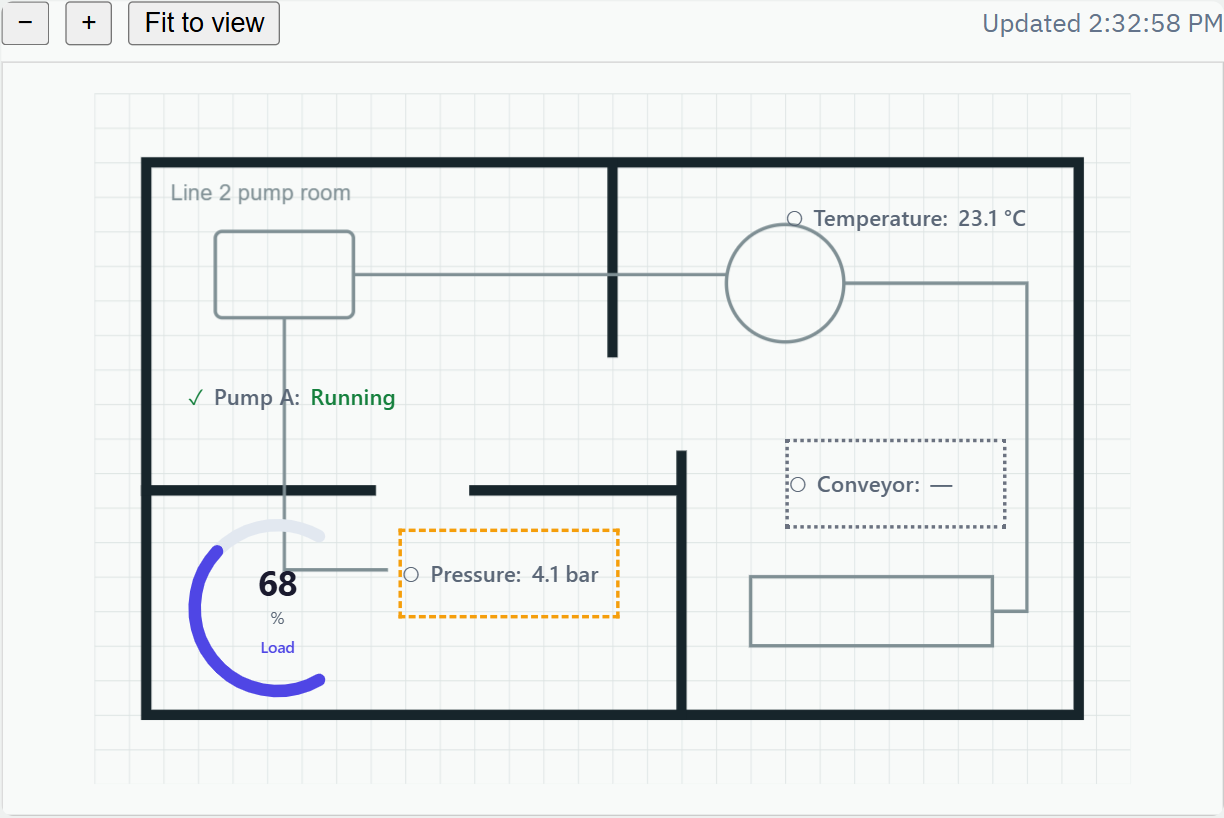
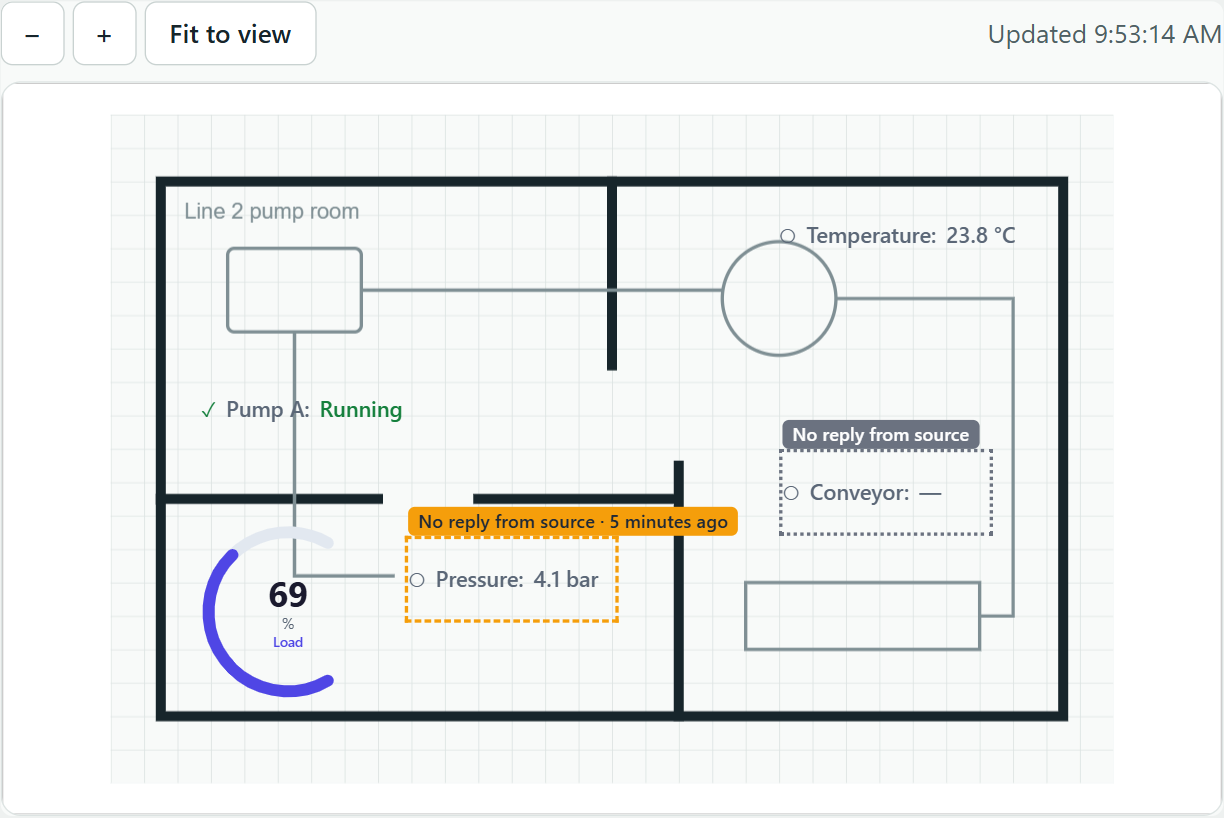
Show a node's quality mark in full, on a tag above its frame; docs for this release's behaviour
On a narrow node the mark inside the frame's corner was cut short - first of all the value's
age - and covered the widget. It now sits just above the frame, whole. The README picture is
the introduction site's board taken again, and the README, the share-link section of the
self-hosting guide and the API reference say what this release does: the mark, an open share
link following the board, refused stale saves, and reference points kept with a redone image.
Reference pictures rendered again on Linux.

diff --git a/packages/core/src/renderer/to-canvas-kit.tsx b/packages/core/src/renderer/to-canvas-kit.tsx
@@ -45,19 +45,19 @@ const WIDGET_FILL_STYLE: CSSProperties = { width: '100%', height: '100%' };
 
 // The visible half of a node's quality, for a screen nobody hovers over or listens to — a wall display.
 // The frame tells how current the value is (by style as well as colour); this says why, and how old
-// it is, in a few words over the widget's corner. Hidden from assistive technology: the status region
-// below announces the full text.
+// it is, in a few words on a tag just above the frame's top-left corner — outside the widget, so it
+// covers none of it, and in full however narrow the node: cut to fit, the age (the part that matters
+// most) would be the first to go. Hidden from assistive technology: the status region below announces
+// the full text.
 const BADGE_STYLE: CSSProperties = {
   position: 'absolute',
-  top: 0,
-  right: 0,
-  maxWidth: '100%',
-  overflow: 'hidden',
-  textOverflow: 'ellipsis',
+  left: 0,
+  bottom: '100%',
+  marginBottom: 2,
   whiteSpace: 'nowrap',
   boxSizing: 'border-box',
   padding: '1px 6px',
-  borderBottomLeftRadius: 4,
+  borderRadius: 4,
   font: '600 11px/1.4 system-ui, sans-serif',
   pointerEvents: 'none',
   zIndex: 1,

diff --git a/README.md b/README.md
@@ -3,7 +3,7 @@
 Spatial dashboard authoring middleware. Build data-bound views on a canvas — a floor plan, a
 network diagram, a map, or a freeform layout — and embed the result anywhere on the web.
 
-![A pump room drawn as the background, with a running pump, its load on a gauge, a temperature, a stale pressure in a dashed amber frame and a disconnected conveyor in a dotted grey frame](docs/images/board.png)
+![A pump room drawn as the background, with a running pump, its load on a gauge, a temperature, a stale pressure in a dashed amber frame tagged "No reply from source · 5 minutes ago", and a disconnected conveyor in a dotted grey frame tagged "No reply from source"](docs/images/board.png)
 
 The board above runs live at the top of [board.u-platform.kr](https://board.u-platform.kr/) — the
 library's own viewer, reading a sample source inside the page — and
@@ -35,9 +35,10 @@ happened to be good enough.
 Every bound value carries its own connection quality — live, stale, or disconnected — and, when it
 is not live, the reason: the source is unreachable, the credentials were refused, the value was not
 found at the source, the answer could not be read, the request was rate limited, or the source itself
-has fallen behind on its updates. Each widget shows its own state (a distinct
-frame, with the reason as its tooltip and for screen readers), so one failing source does not turn
-the whole view into an error.
+has fallen behind on its updates. Each widget shows its own state — a distinct frame, and on a tag
+above it the reason and how old the value is, readable on a wall display nobody hovers over (in full as
+its tooltip and for screen readers) — so one failing source does not turn the whole view into an
+error.
 
 ## What this is not
 
@@ -58,7 +59,7 @@ authoring UI (set the background image; add/drag/resize nodes and rect/text deco
 property panel for editing the selected node's widget type, static props, and data bindings,
 including a path explorer for HTTP-shaped adapter responses and a value map that turns a source's
 words or numbers — by exact value or numeric range — into what the widget takes; a label editor for
-the selected text decoration; reference points that make an anchored node's place a coordinate), export/import of the document as a file (beside the host's own
+the selected text decoration; reference points that make an anchored node's place a coordinate, kept when the background image is redone), export/import of the document as a file (beside the host's own
 Save, when it has one), and a read-only viewer mode are implemented and browser-verified. The editor and
 the viewer fill their container, open with the board fitted into view, and pan and zoom by pointer
 or keyboard.
@@ -71,7 +72,8 @@ Pointer — or out of a list item named by its fields — reads the time the sou
 value, shows a source that has fallen behind its own updates as stale, reports why a binding is not
 live (source unreachable, credentials refused, value not found at the source, an answer it cannot
 read, rate limited, the source behind), and the embed viewer resolves all of a board's bindings in one
-request, again every 30 seconds while it is open. A connector's settings can be tried before they are saved, its credentials are kept on the server
+request, again every 30 seconds while it is open — and shows the board as saved again within the same
+interval. A connector's settings can be tried before they are saved, its credentials are kept on the server
 sealed under an installation key, and the addresses connectors may
 reach are an installation setting — never the server's own loopback, link-local or cloud host addresses. A connector to a specific external system that needs its own
 domain knowledge (e.g. a real CMMS) still requires access to that system and doesn't exist yet —
@@ -80,7 +82,9 @@ board can be wired up and previewed before any real connector is configured. The
 applications (see [Repository layout](#repository-layout)) add workspaces with members,
 server-side board storage, managed connectors, and read-only share links — on an installation run by
 an operator who creates each organization's workspace and can recover one whose owners are gone,
-and a record of who changed members, roles, invitations, boards, share links and connectors.
+and a record of who changed members, roles, invitations, boards, share links and connectors. A save
+made against an older copy of a board is refused rather than overwriting someone else's (HTTP
+`If-Match`), and the console lets its author reload or keep their own.
 They are released together as a versioned container image — on GitHub Releases with an archive for
 networks without internet access, both carrying a build provenance attestation, and changes recorded
 in [`CHANGELOG.md`](CHANGELOG.md); an operator sees the installed version in the console.

diff --git a/packages/core/CHANGELOG.md b/packages/core/CHANGELOG.md
@@ -26,9 +26,9 @@ All notable changes to this package are documented here. The format follows
 
 - `resolvedReading(reading)` (`./domain`): a reading that found its value as the binding's result — `live`, or
   `stale` with reason `lagging`. One place for what every reader of a reference reports.
-- **A node whose value is not current says why, on screen.** The renderer marks the node's corner with the cause of
-  its headline binding's state and, for a stale value, its age — "Source behind · 3 minutes ago", "No reply from
-  source · 30 seconds ago". Until now the cause and the age were in the tooltip and the screen-reader announcement
+- **A node whose value is not current says why, on screen.** The renderer tags the node, just above its frame, with
+  the cause of its headline binding's state and, for a stale value, its age ("Source behind · 3 minutes ago", "No
+  reply from source · 30 seconds ago"), in full however narrow the node and covering none of the widget. Until now the cause and the age were in the tooltip and the screen-reader announcement
   only, so a wall display showed a source that stopped updating and one that could not be reached as the same
   dashed frame.
 - **Anchored nodes keep their coordinates when the background changes.** Replacing the background image with one of

diff --git a/docs/self-hosting.md b/docs/self-hosting.md
@@ -142,7 +142,10 @@ it into the request only when the request is sent; a key typed into a binding's 
 part of the document, and the binding form warns about one.
 
 An open board keeps itself current: every 30 seconds it asks for all of its values in one request,
-and a link that expires while it is open turns into an expiry notice. Many screens showing the same
+and a link that expires while it is open turns into an expiry notice. A board saved again while it is
+open is shown as saved within the same 30 seconds — each answer says which revision of the board it is
+for; a board with no bindings asks for the board itself instead, with `If-None-Match`, and gets a `304`
+while it is unchanged — so either way an open screen costs one request every 30 seconds. Many screens showing the same
 board do not multiply the load on a data source — the server answers requests for the same source
 URL from one read for 10 seconds, and forgets it as soon as the connector's settings change. A binding
 that says how old its source's value may normally be (`maxAgeSeconds` — a source that publishes hourly

diff --git a/docs/api-reference.md b/docs/api-reference.md
@@ -245,8 +245,8 @@ unless the server lists it in `Access-Control-Expose-Headers`.
 
 `live` has no label on purpose: normal operation is not announced, only departures from it.
 
-The shipped renderer also marks a node whose headline value is not current with a few visible words in
-its corner — for a screen nobody hovers over or listens to, such as a wall display. They come from
+The shipped renderer also marks a node whose headline value is not current with a few visible words on
+a tag just above its frame — for a screen nobody hovers over or listens to, such as a wall display. They come from
 `brief`: the cause when the adapter reported one (`brief.reason` — "Source behind" for `lagging`, "No
 reply from source" for `transport`), else the state (`brief.quality`), and for a `stale` value how long
 ago it was obtained — "Source behind · 3 minutes ago". The frame's style shows how current the value is;

diff --git a/CHANGELOG.md b/CHANGELOG.md
@@ -11,6 +11,12 @@ do when upgrading. Each release's notes carry its section.
 
 ## [Unreleased]
 
+### Fixed
+
+- **The mark of a node whose value is not current is shown in full.** It sits on a tag just above the node's frame
+  instead of inside its corner, where a narrow node cut it short — first of all the value's age — and covered the
+  widget.
+
 ## [0.1.7] - 2026-10-13
 
 ### Added
